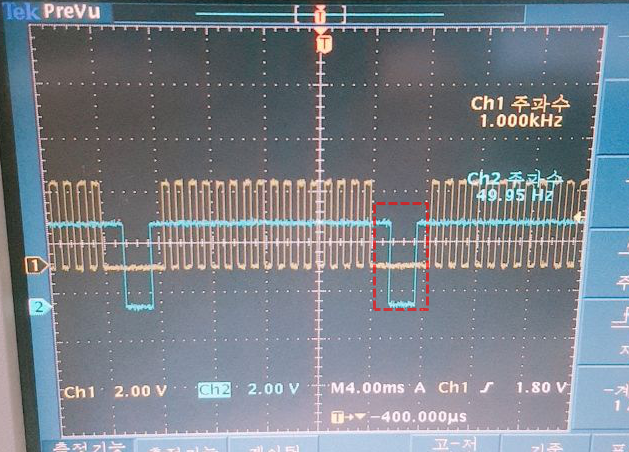
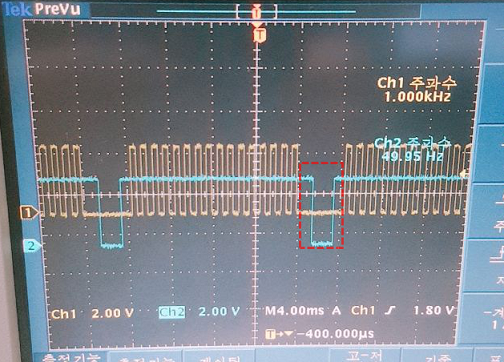
Speed up frequency and set Maximum output speed of GPIO pins as High.

diff --git a/Src/gpio.c b/Src/gpio.c
@@ -86,14 +86,14 @@ void MX_GPIO_Init(void)
   GPIO_InitStruct.Pin = CLK_Pin|SDI_Pin|LD2_Pin;
   GPIO_InitStruct.Mode = GPIO_MODE_OUTPUT_PP;
   GPIO_InitStruct.Pull = GPIO_NOPULL;
-  GPIO_InitStruct.Speed = GPIO_SPEED_FREQ_LOW;
+  GPIO_InitStruct.Speed = GPIO_SPEED_FREQ_HIGH;
   HAL_GPIO_Init(GPIOA, &GPIO_InitStruct);
 
   /*Configure GPIO pin : PtPin */
   GPIO_InitStruct.Pin = LE_Pin;
   GPIO_InitStruct.Mode = GPIO_MODE_OUTPUT_PP;
   GPIO_InitStruct.Pull = GPIO_NOPULL;
-  GPIO_InitStruct.Speed = GPIO_SPEED_FREQ_LOW;
+  GPIO_InitStruct.Speed = GPIO_SPEED_FREQ_HIGH;
   HAL_GPIO_Init(LE_GPIO_Port, &GPIO_InitStruct);
 
 }

diff --git a/Src/tim.c b/Src/tim.c
@@ -66,7 +66,7 @@ void MX_TIM1_Init(void)
   TIM_BreakDeadTimeConfigTypeDef sBreakDeadTimeConfig;
 
   htim1.Instance = TIM1;
-  htim1.Init.Prescaler = 1600-1;
+  htim1.Init.Prescaler = 320-1;
   htim1.Init.CounterMode = TIM_COUNTERMODE_UP;
   htim1.Init.Period = 10-1;
   htim1.Init.ClockDivision = TIM_CLOCKDIVISION_DIV1;
@@ -144,7 +144,7 @@ void MX_TIM2_Init(void)
   TIM_OC_InitTypeDef sConfigOC;
 
   htim2.Instance = TIM2;
-  htim2.Init.Prescaler = 1600-1;
+  htim2.Init.Prescaler = 320-1;
   htim2.Init.CounterMode = TIM_COUNTERMODE_UP;
   htim2.Init.Period = 300;
   htim2.Init.ClockDivision = TIM_CLOCKDIVISION_DIV1;

diff --git a/Src/main.c b/Src/main.c
@@ -86,7 +86,6 @@ void MX_FREERTOS_Init(void);
 int main(void)
 {
   /* USER CODE BEGIN 1 */
-  uint32_t tick = 0;
   /* USER CODE END 1 */
 
   /* MCU Configuration----------------------------------------------------------*/

diff --git a/README.md b/README.md
@@ -3,7 +3,7 @@
 ### Overview
 This STM32 Hal based source code is to generate several signals interfacing MBI5026 16-bit constant current LED sink driver.  
 The MBI5026 is a kind of serial-in and parallel-out IC. To talk with this IC a MCU has to output signals with proper timing.  
-<br>
+  
 ![MBI5026 timing diagram](MBI5026-timing_diagram.png)
 
 ### Build & Run environment
@@ -22,14 +22,14 @@ There are two frequencies in this diagram:
 
 Two TIM timers are used to make these ferquencies respectively.  
 A TIM1 is in charge of T1 pulse. A TIM1 triggers a Update Event to TIM2 at each 20 cycles by setting a Repetition Count (RCR) 19.  
-The _Slave Mode_ of TIM2 is _Reset Mode_ that restarts the timer count then activates the PWM output channel1.
+The _Slave Mode_ of TIM2 is _Reset Mode_ that restarts its own timer count(CNT) then activates the PWM output channel1.
 
 ### Signal outputs
 Output clock frequency is 1kHz.  
 A following signal capture picture shows 16 CLK clocks for serial data input and one clock for LE(Latch Enable).  
 ![Clock and Latch Enable output signal capture](CLK_LE_output.png)
 
-Next picture shows CLK and OE with time sync when T1 frequency 1 kHz.
+Next picture shows CLK and OE with time sync.  
 ![1 kHz Clock and Output Enable output signal capture](CLK_OE_output_of_T1_1kHz.png)
 
 To see maximum timer performance, T1 frequency is change to 20 kHz from 1 kHz by adjusting Prescaler (PSC) value to 80-1 from 1600-1.
@@ -38,9 +38,10 @@ The CLK seems ok but with wrong timing which may be caused from S/W interrupt de
 
 ### Conclusion
 It is easy to implement interrupt driven serial-in and parallel-out using STM32 timers.
-But it works in low speed frequency.  
+But it works in low speed frequency.
+Test shows 5 kHz T1 frequency working fine after setting _Maximum output speed_ of GPIO pins as _High (GPIO_SPEED_FREQ_HIGH)_.  
 Dedicated Compare Output of timer and DMA data feed solution is applicable when high speed frequency is required.
-<br>
+  
 
 ---
   By Hill Kim
